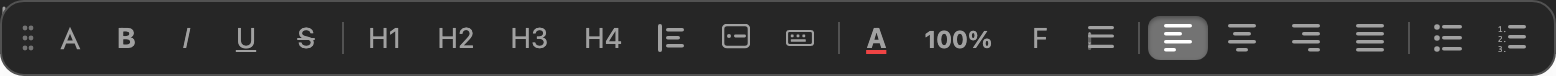
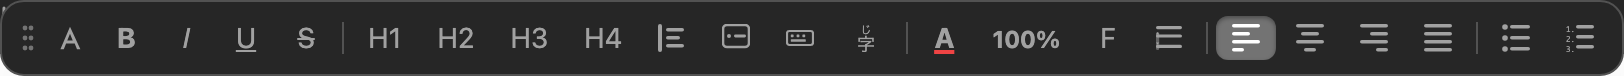
docs(guide): ルビ（ふりがな）の項を追加し、popm の写真を撮り直し
- 操作マニュアルに「ルビ（ふりがな）」を追加（実物の写真 popm-ruby.png つき）
- ルビボタンが増えたので popm 系のスクリーンショットを一括で撮り直し
- capture-guide-shots.mjs に popm-ruby の撮影を追加

diff --git a/public/guide/index.html b/public/guide/index.html
@@ -200,6 +200,7 @@
         <a href="#enter">改行と段落</a>
         <a href="#paste">貼り付け</a>
         <a href="#decorate">文字の装飾</a>
+        <a href="#ruby">ルビ（ふりがな）</a>
         <a href="#indent">字下げ（Tab）</a>
         <a href="#list">箇条書き・番号</a>
         <a href="#check">チェックリスト</a>
@@ -442,8 +443,8 @@
       <h2 id="decorate">文字の装飾</h2>
       <p>文字を選択すると出るポップアップメニューから操作します。</p>
       <figure class="shot">
-        <img src="./img/popm.png" alt="文字を選択すると出るポップアップメニュー。左から 太字・斜体・下線・打ち消し線／見出し／引用・囲み・キー表記／文字色・サイズ・フォント・行間／寄せ／リスト。" loading="lazy">
-        <figcaption>文字を選択すると出るポップアップメニュー。左から 太字・斜体・下線・打ち消し線／見出し／引用・囲み・キー表記／文字色・サイズ・フォント・行間／寄せ／リスト。</figcaption>
+        <img src="./img/popm.png" alt="文字を選択すると出るポップアップメニュー。左から 太字・斜体・下線・打ち消し線／見出し／引用・囲み・キー表記・ルビ／文字色・サイズ・フォント・行間／寄せ／リスト。" loading="lazy">
+        <figcaption>文字を選択すると出るポップアップメニュー。左から 太字・斜体・下線・打ち消し線／見出し／引用・囲み・キー表記・ルビ／文字色・サイズ・フォント・行間／寄せ／リスト。</figcaption>
       </figure>
       <figure class="shot" style="max-width:620px">
         <img src="./img/popm-color.png" alt="「A」を押すと文字色のパレットが開きます（使った色は下に貯まります）。" loading="lazy">
@@ -463,6 +464,7 @@
             <tr><td>フォント</td><td>ゴシック（初期）／明朝。サイト側が Web フォントを読み込んでいれば、それも選べます。</td></tr>
             <tr><td>引用</td><td>選んだ段落を引用にします。引用の中の<strong>空行で <kbd>Enter</kbd></strong> を押すと引用から抜けます。</td></tr>
             <tr><td>キー表記</td><td>選んだ文字を <kbd>Ctrl</kbd> のようなキー風の表示にします。もう一度押すと戻ります。</td></tr>
+            <tr><td>ルビ（ふりがな）</td><td>選んだ文字の上に読みを振ります。<a href="#ruby">下の項</a>を参照。</td></tr>
           </tbody>
         </table>
       </div>
@@ -473,6 +475,45 @@
           <span style="color:#dc2626">文字色</span>、<span style="font-size:150%">大きな文字</span>も使えます。</p>
           <blockquote><p>引用にすると、左に線が付いて斜体になります。</p></blockquote>
           <p>キー表記は <kbd>Ctrl</kbd>+<kbd>S</kbd> のように出ます。</p>
+        </div>
+      </div>
+
+
+      <h2 id="ruby">ルビ（ふりがな）</h2>
+      <p>
+        読みを付けたい文字を選んで、ポップアップメニューの
+        <span class="kbtn"><svg width="16" height="14" viewBox="0 0 16 14" fill="currentColor" aria-hidden="true"><text x="8" y="5.2" font-size="5.4" text-anchor="middle" font-family="sans-serif">じ</text><text x="8" y="13.6" font-size="9" text-anchor="middle" font-family="sans-serif">字</text></svg></span>
+        を押すと、メニューの下に読みの入力欄が開きます。
+        読みを打って <strong>大きさのボタン（小・標準・大）</strong>を押すか、<kbd>Enter</kbd> で確定します。
+      </p>
+      <figure class="shot">
+        <img src="./img/popm-ruby.png" alt="ルビボタンを押すと、メニューの下に読みの入力欄と 小・標準・大・解除 が出ます。" loading="lazy">
+        <figcaption>ルビボタンを押すと、メニューの下に読みの入力欄と 小・標準・大・解除 が出ます。</figcaption>
+      </figure>
+      <div class="table-scroll">
+        <table>
+          <thead><tr><th>したいこと</th><th>操作</th></tr></thead>
+          <tbody>
+            <tr><td>ルビを振る</td><td>文字を選ぶ → ルビボタン → 読みを打つ → 大きさのボタン、または <kbd>Enter</kbd>。</td></tr>
+            <tr><td>読みを直す</td><td>ルビの付いた文字を選び直すと、入力欄に今の読みが入っています。打ち直して確定。</td></tr>
+            <tr><td>大きさを変える</td><td>同じく選び直して、小・標準・大 を押すだけ。</td></tr>
+            <tr><td>ルビを外す</td><td><strong>解除</strong>を押します。文字はそのまま残り、読みだけが消えます。</td></tr>
+          </tbody>
+        </table>
+      </div>
+      <div class="demo">
+        <div class="demo__label">実際の表示</div>
+        <div class="kuro-content">
+          <p>小さめ：<ruby class="kuro-ruby--sm">石動雷十太<rt>いするぎらいじゅうた</rt></ruby> が現れた。</p>
+          <p>標準：<ruby>石動雷十太<rt>いするぎらいじゅうた</rt></ruby> が現れた。</p>
+          <p>大きめ：<ruby class="kuro-ruby--lg">石動雷十太<rt>いするぎらいじゅうた</rt></ruby> が現れた。</p>
+        </div>
+      </div>
+      <div class="box box-note">
+        <div class="box-icon">📌</div>
+        <div>
+          大きさは<strong>文字の大きさに対する比率</strong>なので、あとから文字サイズを変えてもルビの釣り合いは崩れません。
+          なお、<strong>行をまたいで選ぶとルビは振れません</strong>。1 行の中の文字を選んでください。
         </div>
       </div>
 
